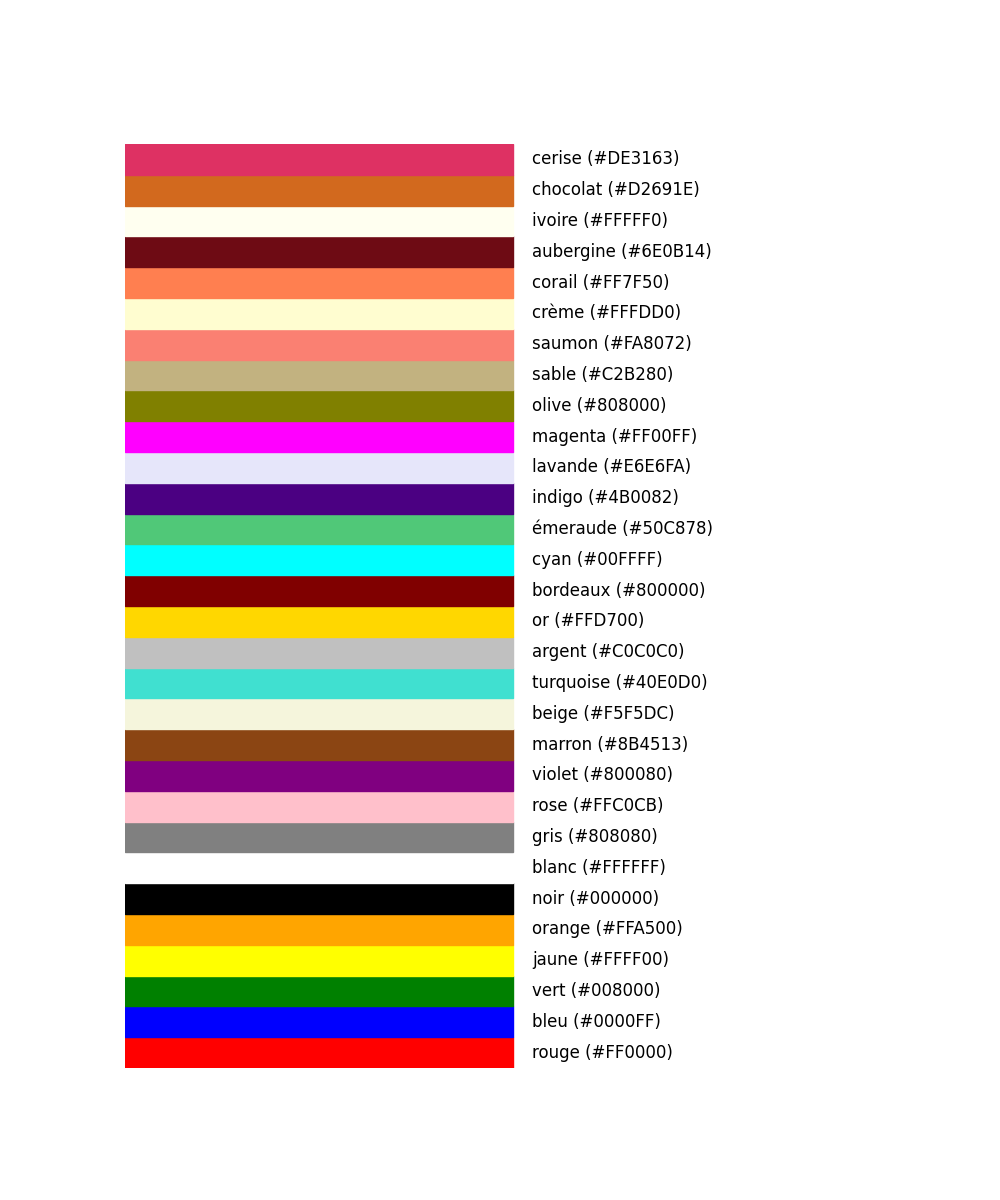
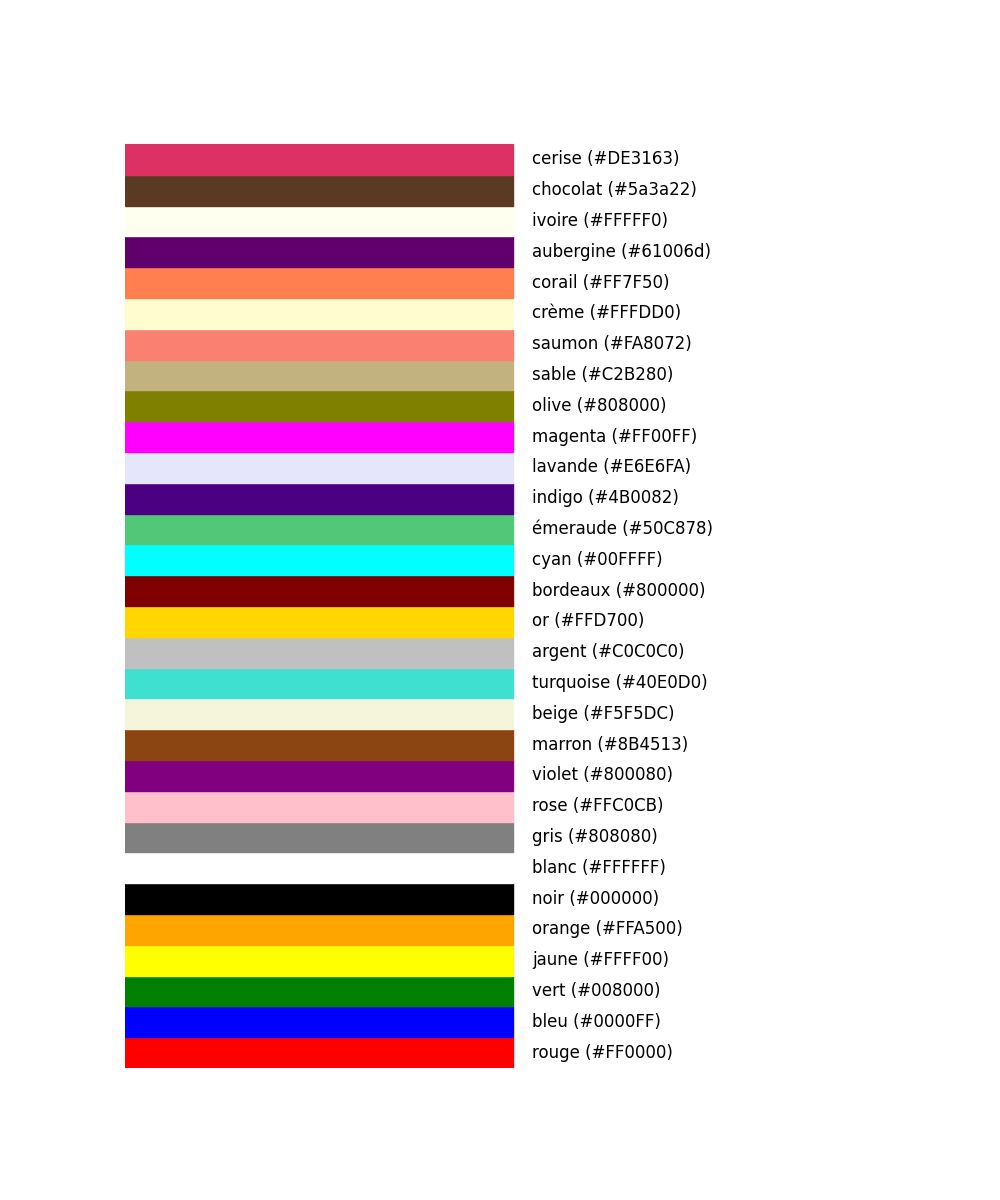
Merge remote-tracking branch 'origin/main'

Changed region(s): [[0.124, 0.1233, 0.527, 0.2467], [0.62, 0.1542, 0.713, 0.2158]]

diff --git a/random/0. Main/Vocabulaire.py b/random/0. Main/Vocabulaire.py
@@ -275,3 +275,36 @@ verbs = [
     "faire confiance",  # to trust
     "mettre à jour",  # to update
 ]
+
+couleurs = [
+    "rouge",  # red
+    "bleu",  # blue
+    "vert",  # green
+    "jaune",  # yellow
+    "orange",  # orange
+    "noir",  # black
+    "blanc",  # white
+    "gris",  # gray
+    "rose",  # pink
+    "violet",  # purple
+    "marron",  # brown
+    "beige",  # beige
+    "turquoise",  # turquoise
+    "argent",  # silver
+    "or",  # gold
+    "bordeaux",  # burgundy
+    "cyan",  # cyan
+    "émeraude",  # emerald green
+    "indigo",  # indigo
+    "lavande",  # lavender
+    "magenta",  # magenta
+    "olive",  # olive green
+    "sable",  # sand
+    "saumon",  # salmon
+    "crème",  # cream
+    "corail",  # coral
+    "aubergine",  # eggplant purple
+    "ivoire",  # ivory
+    "chocolat",  # chocolate brown
+    "cerise",  # cherry red
+]

diff --git a/random/0. Main/1. Work and Delete.py b/random/0. Main/1. Work and Delete.py
@@ -10,8 +10,8 @@ colors_with_hex = {
     "bordeaux": "#800000", "cyan": "#00FFFF", "émeraude": "#50C878",
     "indigo": "#4B0082", "lavande": "#E6E6FA", "magenta": "#FF00FF",
     "olive": "#808000", "sable": "#C2B280", "saumon": "#FA8072",
-    "crème": "#FFFDD0", "corail": "#FF7F50", "aubergine": "#6E0B14",
-    "ivoire": "#FFFFF0", "chocolat": "#D2691E", "cerise": "#DE3163"
+    "crème": "#FFFDD0", "corail": "#FF7F50", "aubergine": "#61006d",
+    "ivoire": "#FFFFF0", "chocolat": "#5a3a22", "cerise": "#DE3163"
 }
 
 # Create the figure and axis

diff --git a/random/0. Main/0.1 My_program.py b/random/0. Main/0.1 My_program.py
@@ -342,4 +342,4 @@ def read_and_image_from_list(your_list=legumes):
         # show_images(word)
 
 
-read_and_image_from_list(verbs)
+read_and_image_from_list(couleurs)
